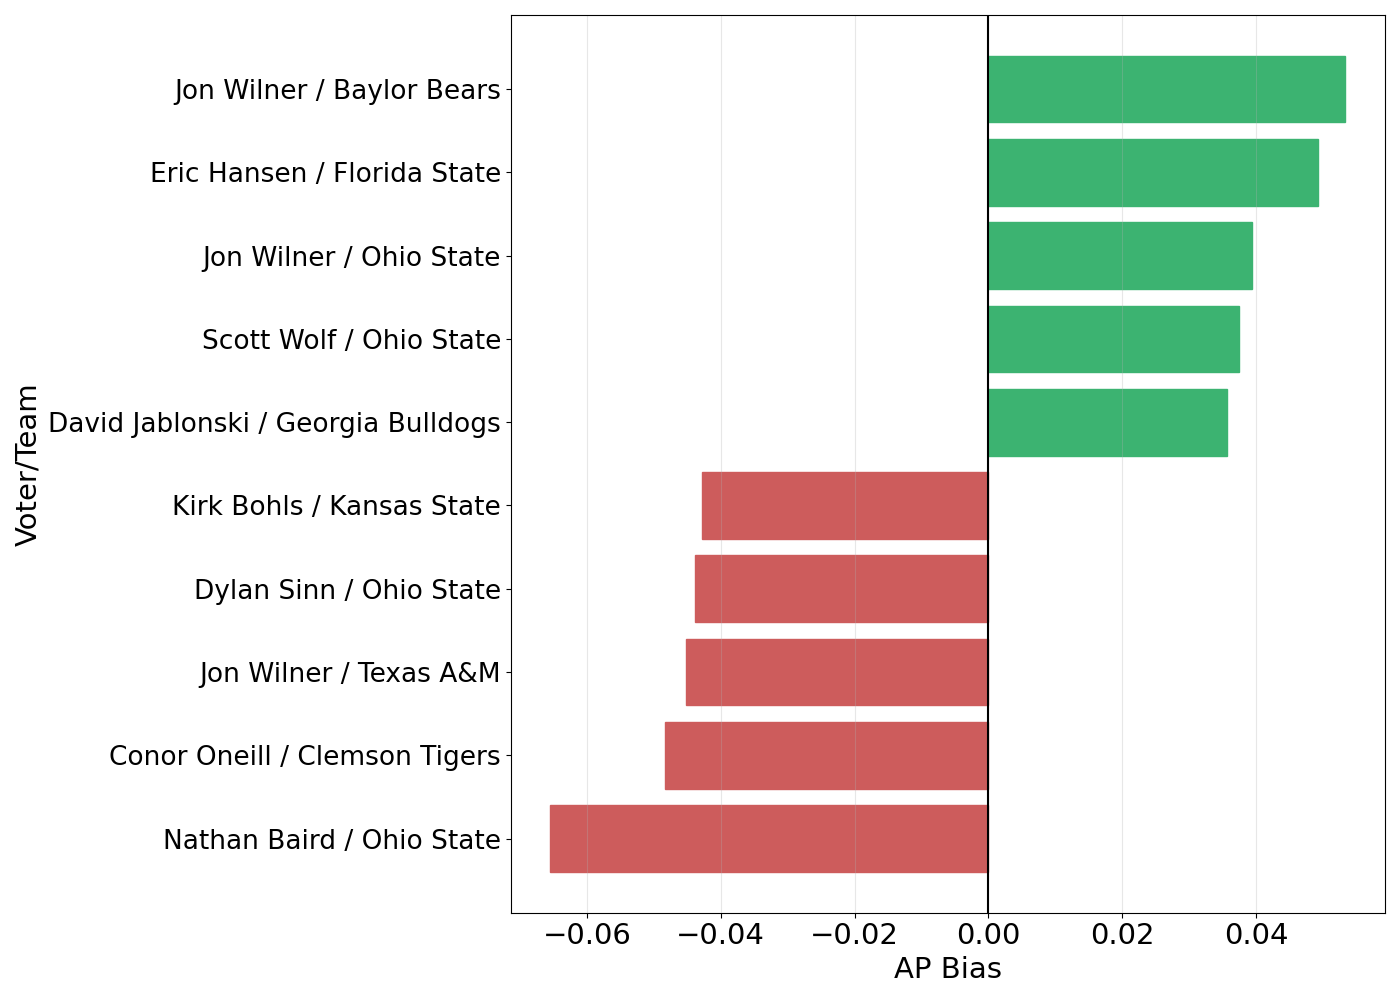
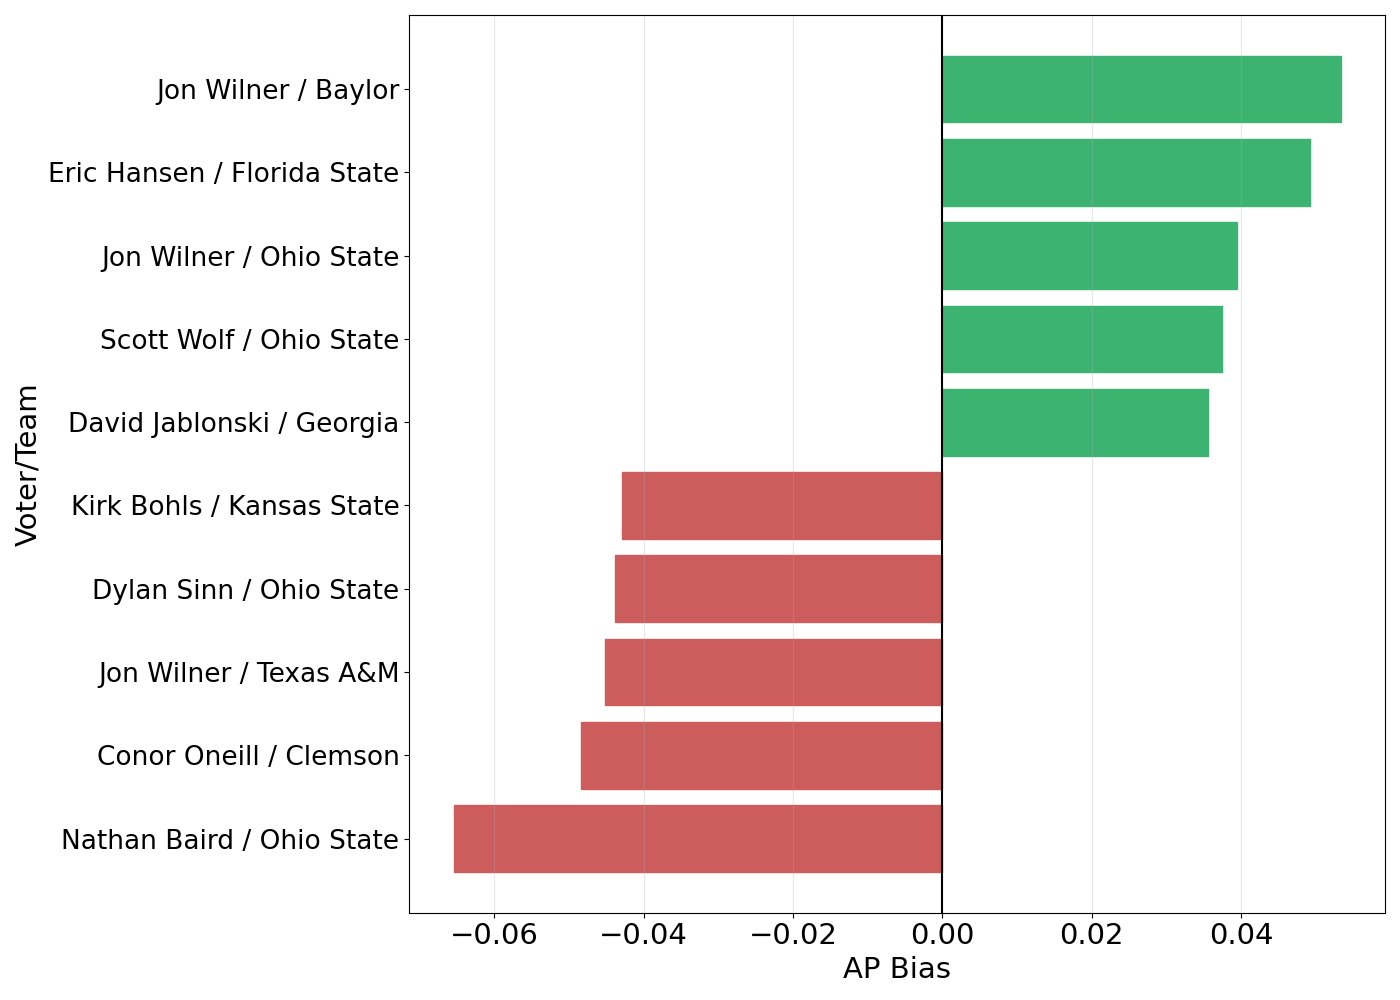
fixed visuals

diff --git a/scripts/create_visuals.py b/scripts/create_visuals.py
@@ -457,6 +457,9 @@ def create_voterteam_pair_weighted(input_csv: str, master_csv: str, min_votes: i
     df_plot['team'] = df_plot['team'].str.replace('-', ' ').str.title()
     df_plot['team'] = df_plot['team'].apply(lambda x: ' '.join(x.split()[:2]))
     df_plot.loc[df_plot['team'] == "Texas Am", 'team'] = "Texas A&M"
+    df_plot.loc[df_plot['team'] == "Baylor Bears", 'team'] = "Baylor"
+    df_plot.loc[df_plot['team'] == "Georgia Bulldogs", 'team'] = "Georgia"
+    df_plot.loc[df_plot['team'] == "Clemson Tigers", 'team'] = "Clemson"
     df_plot['label'] = df_plot['voter'] + ' / ' + df_plot['team']
     
     
